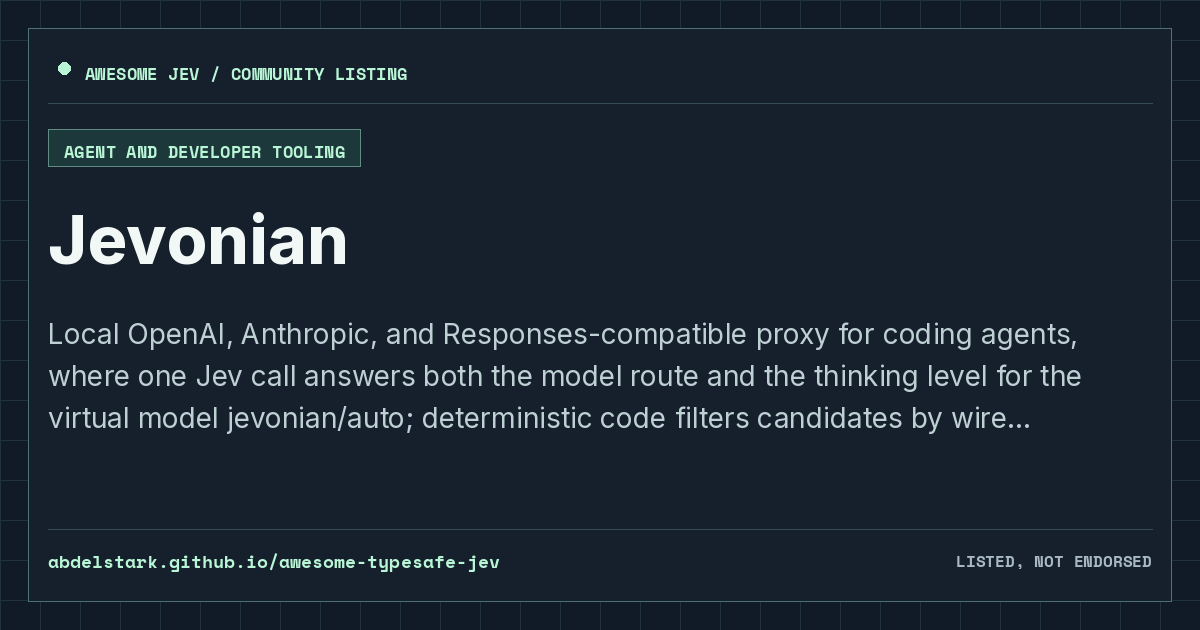
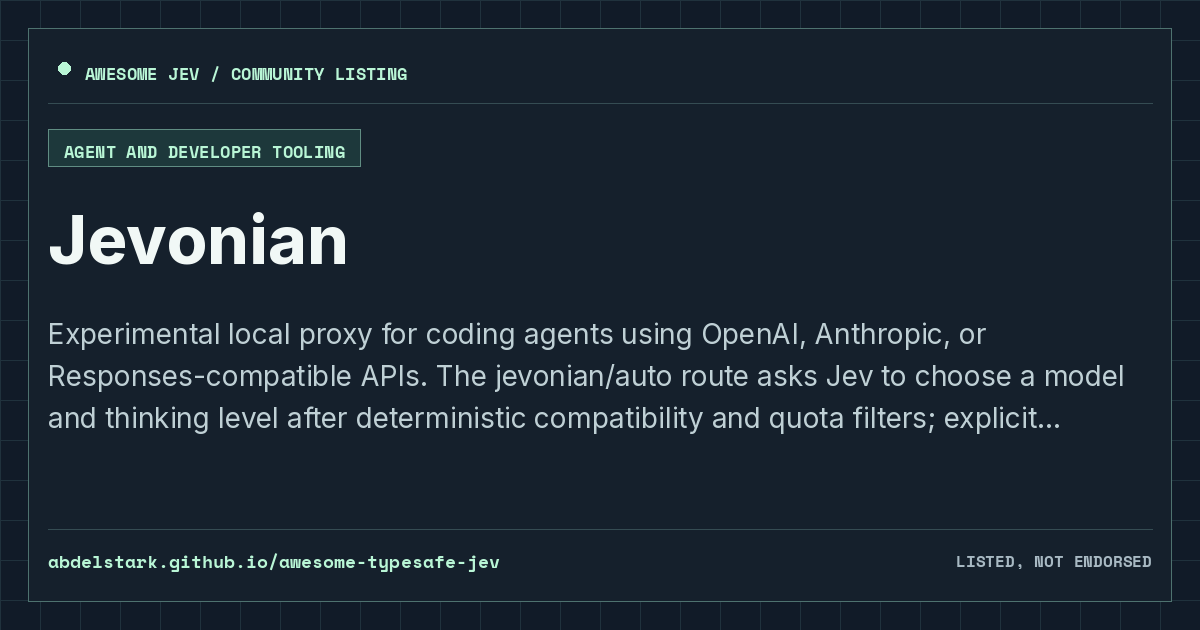
Credit Jevonian contributor and clarify listing

Changed region(s): [[0.0308, 0.5127, 0.9558, 0.6937]]

diff --git a/projects/gh-xinyao27-jevonian.html b/projects/gh-xinyao27-jevonian.html
@@ -1,12 +1,12 @@
 ---
 layout: "resource"
 title: "Jevonian | Awesome Jev"
-description: "Local OpenAI, Anthropic, and Responses-compatible proxy for coding agents, where one Jev call answers both the model route and the thinking level for the virtual model jevonian/auto; deterministic code filters candidates by wire protocol, context window, and thinking-level floor and drops providers whose quota window is spent before Jev is asked, minConfidence marks a low-confidence route in the ledger and response headers rather than accepting it silently, a pinned model ID or explicit jevonian/<route> skips Jev entirely, and every turn is recorded with the serving model, the reason, real token usage, cache reads, and an estimated cost. The state sent to Jev includes recent messages and tool results, consecutive error counts, context headroom, and cache-switch penalties, so the decision is a cost one as well as a capability one; costs are estimated from a price table rather than read back from a vendor invoice, and cache figures are estimates because the on-wire prefix is not yet compared."
+description: "Experimental local proxy for coding agents using OpenAI, Anthropic, or Responses-compatible APIs. The jevonian/auto route asks Jev to choose a model and thinking level after deterministic compatibility and quota filters; explicit routes skip Jev. The ledger records the serving model, route reason, token usage, and estimated cost. Jev receives recent messages and tool results, and the optional fullPrompt setting can send the whole conversation. Low confidence is flagged rather than automatically rerouted; costs and cache savings are estimates."
 permalink: "/projects/gh-xinyao27-jevonian/"
 resource_name: "Jevonian"
 resource_slug: "gh-xinyao27-jevonian"
 resource_url: "https://github.com/xinyao27/jevonian"
-description_markdown: "Local OpenAI, Anthropic, and Responses-compatible proxy for coding agents, where one Jev call answers both the model route and the thinking level for the virtual model `jevonian/auto`; deterministic code filters candidates by wire protocol, context window, and thinking-level floor and drops providers whose quota window is spent before Jev is asked, `minConfidence` marks a low-confidence route in the ledger and response headers rather than accepting it silently, a pinned model ID or explicit `jevonian/<route>` skips Jev entirely, and every turn is recorded with the serving model, the reason, real token usage, cache reads, and an estimated cost. The state sent to Jev includes recent messages and tool results, consecutive error counts, context headroom, and cache-switch penalties, so the decision is a cost one as well as a capability one; costs are estimated from a price table rather than read back from a vendor invoice, and cache figures are estimates because the on-wire prefix is not yet compared."
+description_markdown: "Experimental local proxy for coding agents using OpenAI, Anthropic, or Responses-compatible APIs. The `jevonian/auto` route asks Jev to choose a model and thinking level after deterministic compatibility and quota filters; explicit routes skip Jev. The ledger records the serving model, route reason, token usage, and estimated cost. Jev receives recent messages and tool results, and the optional `fullPrompt` setting can send the whole conversation. Low confidence is flagged rather than automatically rerouted; costs and cache savings are estimates."
 category_name: "Agent and developer tooling"
 category_id: "agent-and-developer-tooling"
 social_image: "/assets/cards/gh-xinyao27-jevonian.png"

diff --git a/README.md b/README.md
@@ -7,7 +7,7 @@
 [![Checks](https://github.com/AbdelStark/awesome-typesafe-jev/actions/workflows/checks.yml/badge.svg)](https://github.com/AbdelStark/awesome-typesafe-jev/actions/workflows/checks.yml)
 [![License: MIT](https://img.shields.io/badge/license-MIT-blue.svg)](LICENSE)
 <!-- ALL-CONTRIBUTORS-BADGE:START - Do not remove or modify this section -->
-[![All Contributors](https://img.shields.io/badge/all_contributors-63-9de3bc.svg?style=flat-square)](#contributors)
+[![All Contributors](https://img.shields.io/badge/all_contributors-64-9de3bc.svg?style=flat-square)](#contributors)
 <!-- ALL-CONTRIBUTORS-BADGE:END -->
 
 **The field guide to typed decisions.**
@@ -240,7 +240,7 @@ Community projects are independent unless their repository says otherwise. Read 
 - [jev.nvim](https://github.com/valentynkit/jev.nvim) — Neovim plugin that splits the buffer into functions with Treesitter, scores each against a plain-language question with Jev, and ranks answers by probability in the quickfix window.
 - [jevcal](https://github.com/abhixhek/jevcal) — CLI that fits a per-question confidence threshold to a target accuracy on your own labeled data, verifies it on a held-out split, estimates how much traffic still needs a fallback model, and re-checks the locked thresholds in CI; publishes no Jev results of its own, and thresholds fitted on fewer than about 100 labeled rows should not be trusted.
 - [JevDroid](https://github.com/antiyro/jevdroid) — Experimental Python framework that uses Jev to choose Android actions from accessibility trees and executes them through ADB or UIAutomator2, with explicit action permissions and per-run budgets; goals and visible UI text are sent to the selected TypeSafe or Vercel provider.
-- [Jevonian](https://github.com/xinyao27/jevonian) — Local OpenAI, Anthropic, and Responses-compatible proxy for coding agents, where one Jev call answers both the model route and the thinking level for the virtual model `jevonian/auto`; deterministic code filters candidates by wire protocol, context window, and thinking-level floor and drops providers whose quota window is spent before Jev is asked, `minConfidence` marks a low-confidence route in the ledger and response headers rather than accepting it silently, a pinned model ID or explicit `jevonian/<route>` skips Jev entirely, and every turn is recorded with the serving model, the reason, real token usage, cache reads, and an estimated cost. The state sent to Jev includes recent messages and tool results, consecutive error counts, context headroom, and cache-switch penalties, so the decision is a cost one as well as a capability one; costs are estimated from a price table rather than read back from a vendor invoice, and cache figures are estimates because the on-wire prefix is not yet compared.
+- [Jevonian](https://github.com/xinyao27/jevonian) — Experimental local proxy for coding agents using OpenAI, Anthropic, or Responses-compatible APIs. The `jevonian/auto` route asks Jev to choose a model and thinking level after deterministic compatibility and quota filters; explicit routes skip Jev. The ledger records the serving model, route reason, token usage, and estimated cost. Jev receives recent messages and tool results, and the optional `fullPrompt` setting can send the whole conversation. Low confidence is flagged rather than automatically rerouted; costs and cache savings are estimates.
 - [jgrep](https://github.com/kyu1204/jgrep) — Semantic grep CLI (`npm install -g jevgrep`) that splits files or git diff hunks into 5–60 line chunks, packs several chunks into one request with a Noul question per chunk, and prints `file:line` hits above a probability threshold with grep-style exit codes, so a diff can be linted in CI against rules written in English; ships an interactive `jgrep init` and an opt-in Claude Code and Codex skill; chunks are judged in isolation so cross-file questions do not match, and every chunk's text is sent to TypeSafe's API.
 - [pi-heed](https://github.com/Nyarlathoteppppp/pi-heed) — Pi extension that turns constraints stated in conversation (English and Chinese) into a scoped, replayable policy (deny, allow, exceptions, once/run permissions, ask-first, tests-before-push) and checks side-effecting tool calls against it before they run; rules handle side effects and paths while Jev only classifies how each message changes the policy, re-checks exceptions and skips tools a free-text rule cannot concern; ships a replayable [benchmark](https://github.com/Nyarlathoteppppp/pi-heed/blob/main/bench/README.md) and an [experiment log](https://github.com/Nyarlathoteppppp/pi-heed/blob/main/EXPERIMENTS.md) on Jev calibration and question design; experimental, shadow mode by default, fails open, and the benchmark is scripted rather than drawn from real sessions.
 - [pi-jev](https://github.com/y0usaf/pi-jev) — Pi extension with a shadow-mode tool-call gate, output judge, and a general typed `jev_ask` tool.
@@ -362,61 +362,64 @@ Thanks to everyone who has improved the list. The portraits below are generated 
       <td align="center" valign="top" width="14.28%"><a href="https://github.com/SergeAx"><img src="https://avatars.githubusercontent.com/u/3264530?s=56" width="56px;" alt=""/><br /><sub><b>SergeAx</b></sub></a><br /><a href="https://github.com/AbdelStark/awesome-typesafe-jev/commits?author=SergeAx" title="Documentation">📖</a></td>
       <td align="center" valign="top" width="14.28%"><a href="https://github.com/sliday"><img src="https://avatars.githubusercontent.com/u/167292?s=56" width="56px;" alt=""/><br /><sub><b>Stas Kulesh</b></sub></a><br /><a href="https://github.com/AbdelStark/awesome-typesafe-jev/commits?author=sliday" title="Documentation">📖</a></td>
       <td align="center" valign="top" width="14.28%"><a href="https://github.com/WiktorB2004"><img src="https://avatars.githubusercontent.com/u/62223421?s=56" width="56px;" alt=""/><br /><sub><b>WiktorB2004</b></sub></a><br /><a href="https://github.com/AbdelStark/awesome-typesafe-jev/commits?author=WiktorB2004" title="Documentation">📖</a></td>
+      <td align="center" valign="top" width="14.28%"><a href="https://github.com/xinyao27"><img src="https://avatars.githubusercontent.com/u/27852165?s=56" width="56px;" alt=""/><br /><sub><b>Xinyao</b></sub></a><br /><a href="https://github.com/AbdelStark/awesome-typesafe-jev/commits?author=xinyao27" title="Documentation">📖</a></td>
       <td align="center" valign="top" width="14.28%"><a href="https://github.com/abhixhek"><img src="https://avatars.githubusercontent.com/u/35265146?s=56" width="56px;" alt=""/><br /><sub><b>abhixhek</b></sub></a><br /><a href="https://github.com/AbdelStark/awesome-typesafe-jev/commits?author=abhixhek" title="Documentation">📖</a></td>
-      <td align="center" valign="top" width="14.28%"><a href="https://github.com/antiyro"><img src="https://avatars.githubusercontent.com/u/74653697?s=56" width="56px;" alt=""/><br /><sub><b>antiyro</b></sub></a><br /><a href="https://github.com/AbdelStark/awesome-typesafe-jev/commits?author=antiyro" title="Documentation">📖</a></td>
     </tr>
     <tr>
+      <td align="center" valign="top" width="14.28%"><a href="https://github.com/antiyro"><img src="https://avatars.githubusercontent.com/u/74653697?s=56" width="56px;" alt=""/><br /><sub><b>antiyro</b></sub></a><br /><a href="https://github.com/AbdelStark/awesome-typesafe-jev/commits?author=antiyro" title="Documentation">📖</a></td>
       <td align="center" valign="top" width="14.28%"><a href="https://github.com/anxkhn"><img src="https://avatars.githubusercontent.com/u/83116240?s=56" width="56px;" alt=""/><br /><sub><b>anxkhn</b></sub></a><br /><a href="https://github.com/AbdelStark/awesome-typesafe-jev/commits?author=anxkhn" title="Documentation">📖</a></td>
       <td align="center" valign="top" width="14.28%"><a href="https://github.com/aowang-ai"><img src="https://avatars.githubusercontent.com/u/127380378?s=56" width="56px;" alt=""/><br /><sub><b>aowang-ai</b></sub></a><br /><a href="https://github.com/AbdelStark/awesome-typesafe-jev/commits?author=aowang-ai" title="Documentation">📖</a></td>
       <td align="center" valign="top" width="14.28%"><a href="https://github.com/brokermr810"><img src="https://avatars.githubusercontent.com/u/220133043?s=56" width="56px;" alt=""/><br /><sub><b>brokermr810</b></sub></a><br /><a href="https://github.com/AbdelStark/awesome-typesafe-jev/commits?author=brokermr810" title="Documentation">📖</a></td>
       <td align="center" valign="top" width="14.28%"><a href="https://github.com/carldaws"><img src="https://avatars.githubusercontent.com/u/83088654?s=56" width="56px;" alt=""/><br /><sub><b>carldaws</b></sub></a><br /><a href="https://github.com/AbdelStark/awesome-typesafe-jev/commits?author=carldaws" title="Documentation">📖</a></td>
       <td align="center" valign="top" width="14.28%"><a href="https://github.com/chy4pro"><img src="https://avatars.githubusercontent.com/u/61305850?s=56" width="56px;" alt=""/><br /><sub><b>chy4pro</b></sub></a><br /><a href="https://github.com/AbdelStark/awesome-typesafe-jev/commits?author=chy4pro" title="Documentation">📖</a></td>
       <td align="center" valign="top" width="14.28%"><a href="https://github.com/copyboy"><img src="https://avatars.githubusercontent.com/u/6965335?s=56" width="56px;" alt=""/><br /><sub><b>copyboy</b></sub></a><br /><a href="https://github.com/AbdelStark/awesome-typesafe-jev/commits?author=copyboy" title="Documentation">📖</a></td>
-      <td align="center" valign="top" width="14.28%"><a href="https://github.com/apps/dependabot"><img src="https://avatars.githubusercontent.com/in/29110?s=56" width="56px;" alt=""/><br /><sub><b>dependabot</b></sub></a><br /><a href="https://github.com/AbdelStark/awesome-typesafe-jev/commits?author=dependabot[bot]" title="Code">💻</a></td>
     </tr>
     <tr>
+      <td align="center" valign="top" width="14.28%"><a href="https://github.com/apps/dependabot"><img src="https://avatars.githubusercontent.com/in/29110?s=56" width="56px;" alt=""/><br /><sub><b>dependabot</b></sub></a><br /><a href="https://github.com/AbdelStark/awesome-typesafe-jev/commits?author=dependabot[bot]" title="Code">💻</a></td>
       <td align="center" valign="top" width="14.28%"><a href="https://github.com/devx-opensource"><img src="https://avatars.githubusercontent.com/u/52704828?s=56" width="56px;" alt=""/><br /><sub><b>devx-opensource</b></sub></a><br /><a href="https://github.com/AbdelStark/awesome-typesafe-jev/commits?author=devx-opensource" title="Documentation">📖</a></td>
       <td align="center" valign="top" width="14.28%"><a href="https://github.com/emreozyoruk"><img src="https://avatars.githubusercontent.com/u/72655616?s=56" width="56px;" alt=""/><br /><sub><b>emreozyoruk</b></sub></a><br /><a href="https://github.com/AbdelStark/awesome-typesafe-jev/commits?author=emreozyoruk" title="Documentation">📖</a></td>
       <td align="center" valign="top" width="14.28%"><a href="https://github.com/eugeniughelbur"><img src="https://avatars.githubusercontent.com/u/229805713?s=56" width="56px;" alt=""/><br /><sub><b>eugeniughelbur</b></sub></a><br /><a href="https://github.com/AbdelStark/awesome-typesafe-jev/commits?author=eugeniughelbur" title="Documentation">📖</a></td>
       <td align="center" valign="top" width="14.28%"><a href="https://github.com/fatwang2"><img src="https://avatars.githubusercontent.com/u/134143178?s=56" width="56px;" alt=""/><br /><sub><b>fatwang2</b></sub></a><br /><a href="https://github.com/AbdelStark/awesome-typesafe-jev/commits?author=fatwang2" title="Documentation">📖</a></td>
       <td align="center" valign="top" width="14.28%"><a href="https://github.com/formulahendry"><img src="https://avatars.githubusercontent.com/u/1050213?s=56" width="56px;" alt=""/><br /><sub><b>formulahendry</b></sub></a><br /><a href="https://github.com/AbdelStark/awesome-typesafe-jev/commits?author=formulahendry" title="Documentation">📖</a></td>
       <td align="center" valign="top" width="14.28%"><a href="https://github.com/forvela"><img src="https://avatars.githubusercontent.com/u/6023261?s=56" width="56px;" alt=""/><br /><sub><b>forvela</b></sub></a><br /><a href="https://github.com/AbdelStark/awesome-typesafe-jev/commits?author=forvela" title="Documentation">📖</a></td>
-      <td align="center" valign="top" width="14.28%"><a href="https://github.com/gaborishka"><img src="https://avatars.githubusercontent.com/u/25786922?s=56" width="56px;" alt=""/><br /><sub><b>gaborishka</b></sub></a><br /><a href="https://github.com/AbdelStark/awesome-typesafe-jev/commits?author=gaborishka" title="Documentation">📖</a></td>
     </tr>
     <tr>
+      <td align="center" valign="top" width="14.28%"><a href="https://github.com/gaborishka"><img src="https://avatars.githubusercontent.com/u/25786922?s=56" width="56px;" alt=""/><br /><sub><b>gaborishka</b></sub></a><br /><a href="https://github.com/AbdelStark/awesome-typesafe-jev/commits?author=gaborishka" title="Documentation">📖</a></td>
       <td align="center" valign="top" width="14.28%"><a href="https://github.com/garretpremo"><img src="https://avatars.githubusercontent.com/u/22661350?s=56" width="56px;" alt=""/><br /><sub><b>garretpremo</b></sub></a><br /><a href="https://github.com/AbdelStark/awesome-typesafe-jev/commits?author=garretpremo" title="Documentation">📖</a></td>
       <td align="center" valign="top" width="14.28%"><a href="https://github.com/ikkun1222"><img src="https://avatars.githubusercontent.com/u/15605461?s=56" width="56px;" alt=""/><br /><sub><b>ikkun1222</b></sub></a><br /><a href="https://github.com/AbdelStark/awesome-typesafe-jev/commits?author=ikkun1222" title="Documentation">📖</a></td>
       <td align="center" valign="top" width="14.28%"><a href="https://github.com/jesset"><img src="https://avatars.githubusercontent.com/u/56474?s=56" width="56px;" alt=""/><br /><sub><b>jesset</b></sub></a><br /><a href="https://github.com/AbdelStark/awesome-typesafe-jev/commits?author=jesset" title="Documentation">📖</a></td>
       <td align="center" valign="top" width="14.28%"><a href="https://github.com/jonesmelton"><img src="https://avatars.githubusercontent.com/u/15352346?s=56" width="56px;" alt=""/><br /><sub><b>jonesmelton</b></sub></a><br /><a href="https://github.com/AbdelStark/awesome-typesafe-jev/commits?author=jonesmelton" title="Documentation">📖</a></td>
       <td align="center" valign="top" width="14.28%"><a href="https://github.com/jyatesdotdev"><img src="https://avatars.githubusercontent.com/u/15803573?s=56" width="56px;" alt=""/><br /><sub><b>jyatesdotdev</b></sub></a><br /><a href="https://github.com/AbdelStark/awesome-typesafe-jev/commits?author=jyatesdotdev" title="Documentation">📖</a></td>
       <td align="center" valign="top" width="14.28%"><a href="https://github.com/kylemclaren"><img src="https://avatars.githubusercontent.com/u/3727384?s=56" width="56px;" alt=""/><br /><sub><b>kylemclaren</b></sub></a><br /><a href="https://github.com/AbdelStark/awesome-typesafe-jev/commits?author=kylemclaren" title="Documentation">📖</a></td>
-      <td align="center" valign="top" width="14.28%"><a href="https://github.com/kyu1204"><img src="https://avatars.githubusercontent.com/u/33680799?s=56" width="56px;" alt=""/><br /><sub><b>kyu1204</b></sub></a><br /><a href="https://github.com/AbdelStark/awesome-typesafe-jev/commits?author=kyu1204" title="Documentation">📖</a></td>
     </tr>
     <tr>
+      <td align="center" valign="top" width="14.28%"><a href="https://github.com/kyu1204"><img src="https://avatars.githubusercontent.com/u/33680799?s=56" width="56px;" alt=""/><br /><sub><b>kyu1204</b></sub></a><br /><a href="https://github.com/AbdelStark/awesome-typesafe-jev/commits?author=kyu1204" title="Documentation">📖</a></td>
       <td align="center" valign="top" width="14.28%"><a href="https://github.com/ljedrz"><img src="https://avatars.githubusercontent.com/u/3750347?s=56" width="56px;" alt=""/><br /><sub><b>ljedrz</b></sub></a><br /><a href="https://github.com/AbdelStark/awesome-typesafe-jev/commits?author=ljedrz" title="Documentation">📖</a></td>
       <td align="center" valign="top" width="14.28%"><a href="https://github.com/luantak"><img src="https://avatars.githubusercontent.com/u/46541492?s=56" width="56px;" alt=""/><br /><sub><b>luantak</b></sub></a><br /><a href="https://github.com/AbdelStark/awesome-typesafe-jev/commits?author=luantak" title="Documentation">📖</a></td>
       <td align="center" valign="top" width="14.28%"><a href="https://github.com/lukstei"><img src="https://avatars.githubusercontent.com/u/292363?s=56" width="56px;" alt=""/><br /><sub><b>lukstei</b></sub></a><br /><a href="https://github.com/AbdelStark/awesome-typesafe-jev/commits?author=lukstei" title="Documentation">📖</a></td>
       <td align="center" valign="top" width="14.28%"><a href="https://github.com/marandaneto"><img src="https://avatars.githubusercontent.com/u/5731772?s=56" width="56px;" alt=""/><br /><sub><b>marandaneto</b></sub></a><br /><a href="https://github.com/AbdelStark/awesome-typesafe-jev/commits?author=marandaneto" title="Documentation">📖</a></td>
       <td align="center" valign="top" width="14.28%"><a href="https://github.com/nshkrdotcom"><img src="https://avatars.githubusercontent.com/u/127063941?s=56" width="56px;" alt=""/><br /><sub><b>nshkrdotcom</b></sub></a><br /><a href="https://github.com/AbdelStark/awesome-typesafe-jev/commits?author=nshkrdotcom" title="Documentation">📖</a></td>
       <td align="center" valign="top" width="14.28%"><a href="https://github.com/roadtogideon222-byte"><img src="https://avatars.githubusercontent.com/u/261539583?s=56" width="56px;" alt=""/><br /><sub><b>roadtogideon222-byte</b></sub></a><br /><a href="https://github.com/AbdelStark/awesome-typesafe-jev/commits?author=roadtogideon222-byte" title="Documentation">📖</a></td>
-      <td align="center" valign="top" width="14.28%"><a href="https://github.com/rubenroques"><img src="https://avatars.githubusercontent.com/u/1226082?s=56" width="56px;" alt=""/><br /><sub><b>rubenroques</b></sub></a><br /><a href="https://github.com/AbdelStark/awesome-typesafe-jev/commits?author=rubenroques" title="Documentation">📖</a></td>
     </tr>
     <tr>
+      <td align="center" valign="top" width="14.28%"><a href="https://github.com/rubenroques"><img src="https://avatars.githubusercontent.com/u/1226082?s=56" width="56px;" alt=""/><br /><sub><b>rubenroques</b></sub></a><br /><a href="https://github.com/AbdelStark/awesome-typesafe-jev/commits?author=rubenroques" title="Documentation">📖</a></td>
       <td align="center" valign="top" width="14.28%"><a href="https://github.com/rupeshpoojary9"><img src="https://avatars.githubusercontent.com/u/190820887?s=56" width="56px;" alt=""/><br /><sub><b>rupeshpoojary9</b></sub></a><br /><a href="https://github.com/AbdelStark/awesome-typesafe-jev/commits?author=rupeshpoojary9" title="Documentation">📖</a></td>
       <td align="center" valign="top" width="14.28%"><a href="https://github.com/rustyconover"><img src="https://avatars.githubusercontent.com/u/731941?s=56" width="56px;" alt=""/><br /><sub><b>rustyconover</b></sub></a><br /><a href="https://github.com/AbdelStark/awesome-typesafe-jev/commits?author=rustyconover" title="Documentation">📖</a></td>
       <td align="center" valign="top" width="14.28%"><a href="https://github.com/scienthoon"><img src="https://avatars.githubusercontent.com/u/46613837?s=56" width="56px;" alt=""/><br /><sub><b>scienthoon</b></sub></a><br /><a href="https://github.com/AbdelStark/awesome-typesafe-jev/commits?author=scienthoon" title="Documentation">📖</a></td>
       <td align="center" valign="top" width="14.28%"><a href="https://github.com/sensahin"><img src="https://avatars.githubusercontent.com/u/802267?s=56" width="56px;" alt=""/><br /><sub><b>sensahin</b></sub></a><br /><a href="https://github.com/AbdelStark/awesome-typesafe-jev/commits?author=sensahin" title="Documentation">📖</a></td>
       <td align="center" valign="top" width="14.28%"><a href="https://github.com/sethkimmel3"><img src="https://avatars.githubusercontent.com/u/5075883?s=56" width="56px;" alt=""/><br /><sub><b>sethkimmel3</b></sub></a><br /><a href="https://github.com/AbdelStark/awesome-typesafe-jev/commits?author=sethkimmel3" title="Documentation">📖</a></td>
       <td align="center" valign="top" width="14.28%"><a href="https://github.com/shiftynick"><img src="https://avatars.githubusercontent.com/u/5439863?s=56" width="56px;" alt=""/><br /><sub><b>shiftynick</b></sub></a><br /><a href="https://github.com/AbdelStark/awesome-typesafe-jev/commits?author=shiftynick" title="Documentation">📖</a></td>
-      <td align="center" valign="top" width="14.28%"><a href="https://github.com/shimo4228"><img src="https://avatars.githubusercontent.com/u/54734315?s=56" width="56px;" alt=""/><br /><sub><b>shimo4228</b></sub></a><br /><a href="https://github.com/AbdelStark/awesome-typesafe-jev/commits?author=shimo4228" title="Documentation">📖</a></td>
     </tr>
     <tr>
+      <td align="center" valign="top" width="14.28%"><a href="https://github.com/shimo4228"><img src="https://avatars.githubusercontent.com/u/54734315?s=56" width="56px;" alt=""/><br /><sub><b>shimo4228</b></sub></a><br /><a href="https://github.com/AbdelStark/awesome-typesafe-jev/commits?author=shimo4228" title="Documentation">📖</a></td>
       <td align="center" valign="top" width="14.28%"><a href="https://github.com/shitianfang"><img src="https://avatars.githubusercontent.com/u/61344989?s=56" width="56px;" alt=""/><br /><sub><b>shitianfang</b></sub></a><br /><a href="https://github.com/AbdelStark/awesome-typesafe-jev/commits?author=shitianfang" title="Documentation">📖</a></td>
       <td align="center" valign="top" width="14.28%"><a href="https://github.com/ticofab"><img src="https://avatars.githubusercontent.com/u/1792917?s=56" width="56px;" alt=""/><br /><sub><b>ticofab</b></sub></a><br /><a href="https://github.com/AbdelStark/awesome-typesafe-jev/commits?author=ticofab" title="Documentation">📖</a></td>
       <td align="center" valign="top" width="14.28%"><a href="https://github.com/ufec"><img src="https://avatars.githubusercontent.com/u/34962267?s=56" width="56px;" alt=""/><br /><sub><b>ufec</b></sub></a><br /><a href="https://github.com/AbdelStark/awesome-typesafe-jev/commits?author=ufec" title="Documentation">📖</a></td>
       <td align="center" valign="top" width="14.28%"><a href="https://github.com/unikcc"><img src="https://avatars.githubusercontent.com/u/19505579?s=56" width="56px;" alt=""/><br /><sub><b>unikcc</b></sub></a><br /><a href="https://github.com/AbdelStark/awesome-typesafe-jev/commits?author=unikcc" title="Documentation">📖</a></td>
       <td align="center" valign="top" width="14.28%"><a href="https://github.com/valentynkit"><img src="https://avatars.githubusercontent.com/u/35431524?s=56" width="56px;" alt=""/><br /><sub><b>valentynkit</b></sub></a><br /><a href="https://github.com/AbdelStark/awesome-typesafe-jev/commits?author=valentynkit" title="Documentation">📖</a></td>
       <td align="center" valign="top" width="14.28%"><a href="https://github.com/yodablocks"><img src="https://avatars.githubusercontent.com/u/83685559?s=56" width="56px;" alt=""/><br /><sub><b>yodablocks</b></sub></a><br /><a href="https://github.com/AbdelStark/awesome-typesafe-jev/commits?author=yodablocks" title="Documentation">📖</a></td>
+    </tr>
+    <tr>
       <td align="center" valign="top" width="14.28%"><a href="https://github.com/yuyang2230"><img src="https://avatars.githubusercontent.com/u/10702165?s=56" width="56px;" alt=""/><br /><sub><b>yuyang2230</b></sub></a><br /><a href="https://github.com/AbdelStark/awesome-typesafe-jev/commits?author=yuyang2230" title="Documentation">📖</a></td>
     </tr>
   </tbody>
